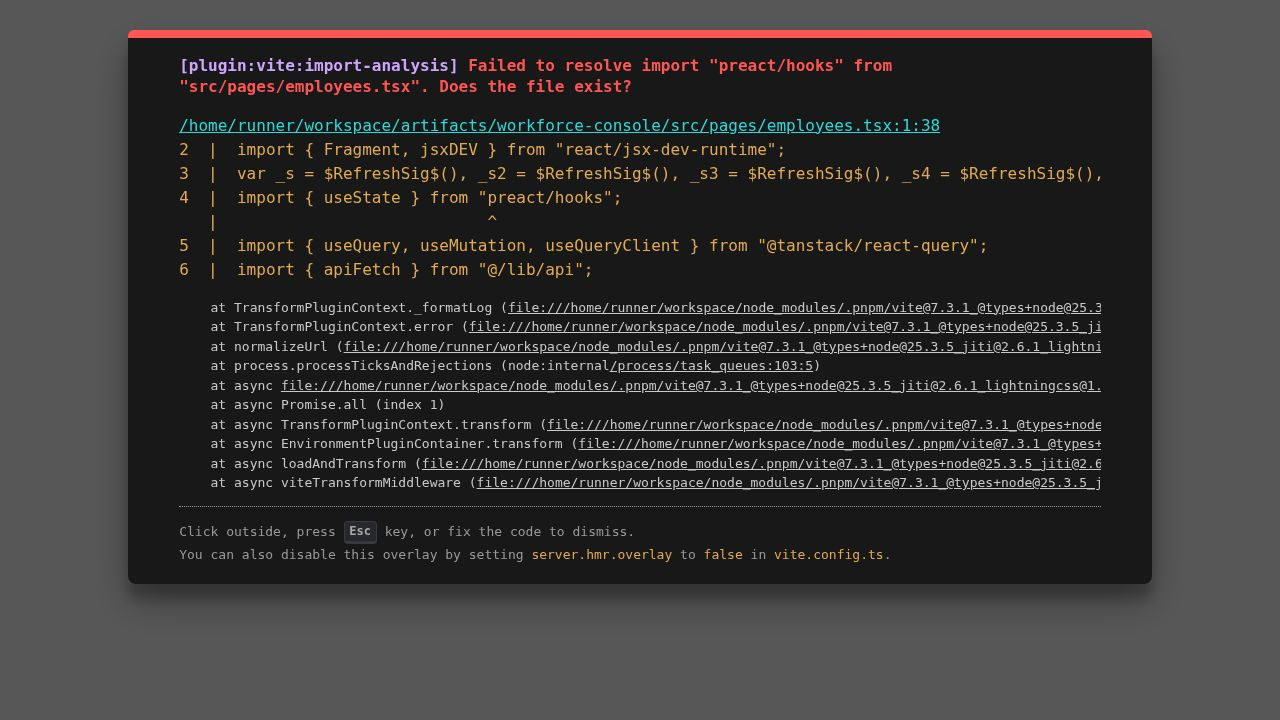
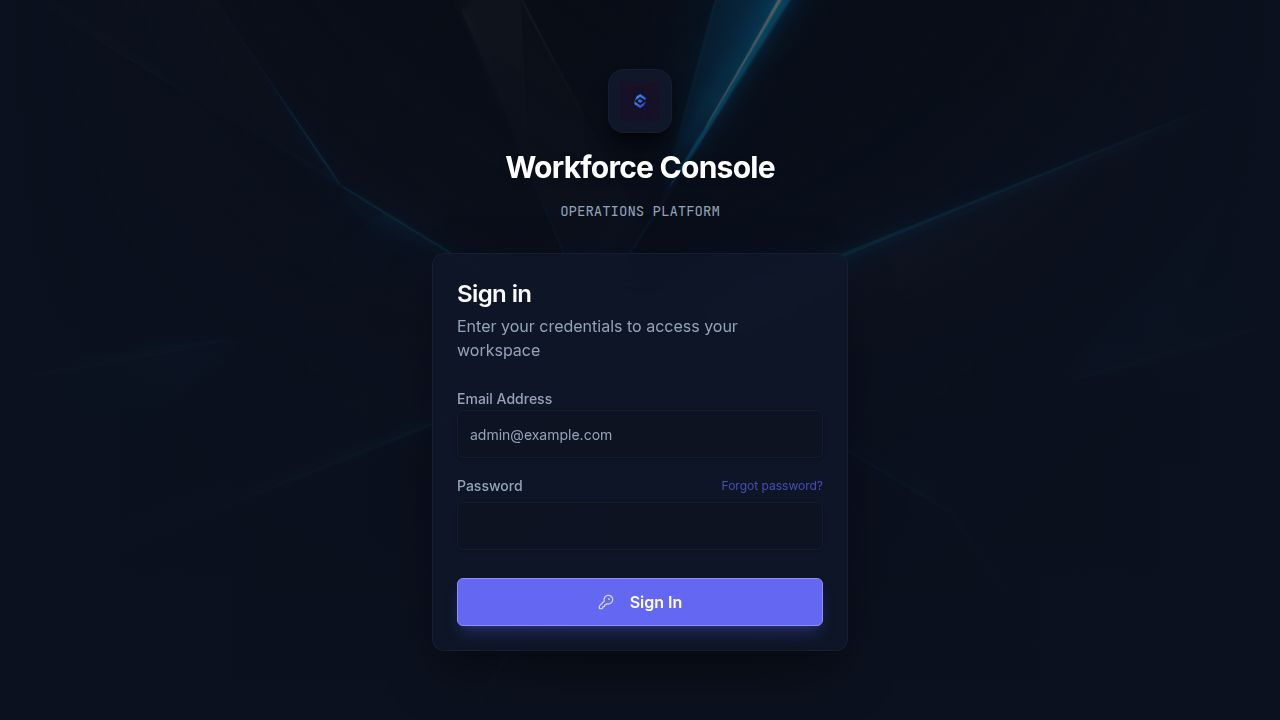
Fix API endpoint paths for the employees module
Correctly format API paths in `employees.tsx` to avoid double prefixes by removing unnecessary `/api/v1` from requests to `/workforce/*` endpoints.

Replit-Commit-Author: Agent
Replit-Commit-Session-Id: fac3b096-205c-4d1a-9620-f0959554fa4b
Replit-Commit-Checkpoint-Type: full_checkpoint
Replit-Commit-Event-Id: f8a30a54-0233-4829-b984-30e22bf593ee
Replit-Commit-Screenshot-Url: https://storage.googleapis.com/screenshot-production-us-central1/2b28fc9f-992f-4103-b3cf-50a1609164b2/fac3b096-205c-4d1a-9620-f0959554fa4b/zgcVG34
Replit-Helium-Checkpoint-Created: true

diff --git a/artifacts/workforce-console/src/pages/employees.tsx b/artifacts/workforce-console/src/pages/employees.tsx
@@ -149,13 +149,13 @@ function ProfilesTab() {
       const params = new URLSearchParams();
       if (statusFilter) params.set("status", statusFilter);
       if (search) params.set("search", search);
-      return apiFetch(`/api/v1/workforce/employees?${params}`);
+      return apiFetch(`/workforce/employees?${params}`);
     },
   });
 
   const lifecycleMutation = useMutation({
     mutationFn: ({ id, action, reason }: { id: string; action: string; reason?: string }) =>
-      apiFetch(`/api/v1/workforce/employees/${id}/${action}`, {
+      apiFetch(`/workforce/employees/${id}/${action}`, {
         method: "POST",
         body: JSON.stringify({ reason }),
       }),
@@ -304,7 +304,7 @@ function CreateProfileModal({ onClose, onCreated }: { onClose: () => void; onCre
     if (!form.legal_first_name || !form.legal_last_name) { setErr("First and last name required"); return; }
     setSaving(true); setErr("");
     try {
-      await apiFetch("/api/v1/workforce/employees", {
+      await apiFetch("/workforce/employees", {
         method: "POST",
         body: JSON.stringify(form),
       });
@@ -379,7 +379,7 @@ function LinksTab() {
   // a cross-employee links view via access-context aggregation
   const { data: profiles = [], isLoading } = useQuery<EmployeeProfile[]>({
     queryKey: ["workforce-employees", "", ""],
-    queryFn: () => apiFetch("/api/v1/workforce/employees"),
+    queryFn: () => apiFetch("/workforce/employees"),
   });
 
   // Fetch links for each employee, but lazy
@@ -387,13 +387,13 @@ function LinksTab() {
 
   const { data: links = [], isLoading: linksLoading } = useQuery<UserEmployeeLink[]>({
     queryKey: ["workforce-links", selectedEp],
-    queryFn: () => apiFetch(`/api/v1/workforce/employees/${selectedEp}/links`),
+    queryFn: () => apiFetch(`/workforce/employees/${selectedEp}/links`),
     enabled: !!selectedEp,
   });
 
   const linkActionMutation = useMutation({
     mutationFn: ({ linkId, action, reason }: { linkId: string; action: string; reason?: string }) =>
-      apiFetch(`/api/v1/workforce/links/${linkId}/${action}`, {
+      apiFetch(`/workforce/links/${linkId}/${action}`, {
         method: "POST",
         body: JSON.stringify({ reason }),
       }),
@@ -499,17 +499,17 @@ function RoleAssignmentsTab() {
 
   const { data: profiles = [] } = useQuery<EmployeeProfile[]>({
     queryKey: ["workforce-employees", "", ""],
-    queryFn: () => apiFetch("/api/v1/workforce/employees"),
+    queryFn: () => apiFetch("/workforce/employees"),
   });
 
   const { data: assignments = [], isLoading } = useQuery<RoleAssignment[]>({
     queryKey: ["workforce-role-assignments", selectedEp],
-    queryFn: () => apiFetch(`/api/v1/workforce/employees/${selectedEp}/role-assignments`),
+    queryFn: () => apiFetch(`/workforce/employees/${selectedEp}/role-assignments`),
     enabled: !!selectedEp,
   });
 
   const deactivateMutation = useMutation({
-    mutationFn: (id: string) => apiFetch(`/api/v1/workforce/role-assignments/${id}`, { method: "DELETE" }),
+    mutationFn: (id: string) => apiFetch(`/workforce/role-assignments/${id}`, { method: "DELETE" }),
     onSuccess: () => qc.invalidateQueries({ queryKey: ["workforce-role-assignments", selectedEp] }),
   });
 
@@ -620,7 +620,7 @@ function AddRoleModal({ epId, epName, onClose, onAdded }: {
         supervisor: ["rooms:write","tasks:write","staff:read","shifts:read","shifts:write"],
         staff:      ["tasks:read","tasks:write:own","shifts:read"],
       };
-      await apiFetch(`/api/v1/workforce/employees/${epId}/role-assignments`, {
+      await apiFetch(`/workforce/employees/${epId}/role-assignments`, {
         method: "POST",
         body: JSON.stringify({ ...form, permissions: PERMS[form.role_name] ?? [] }),
       });
@@ -709,7 +709,7 @@ function AuditTab() {
       const p = new URLSearchParams({ limit: "100" });
       if (filter.event_key) p.set("event_key", filter.event_key);
       if (filter.target_id) p.set("target_id", filter.target_id);
-      return apiFetch(`/api/v1/workforce/audit?${p}`);
+      return apiFetch(`/workforce/audit?${p}`);
     },
   });
 
@@ -781,14 +781,14 @@ function AuditTab() {
 function AccessContextPanel() {
   const { data: profiles = [] } = useQuery<EmployeeProfile[]>({
     queryKey: ["workforce-employees", "", ""],
-    queryFn: () => apiFetch("/api/v1/workforce/employees"),
+    queryFn: () => apiFetch("/workforce/employees"),
   });
 
   const [selectedUserId, setSelectedUserId] = useState("");
 
   const { data: ctx, isLoading, refetch } = useQuery({
     queryKey: ["workforce-access-context", selectedUserId],
-    queryFn: () => apiFetch(`/api/v1/workforce/access-context?user_id=${selectedUserId}`),
+    queryFn: () => apiFetch(`/workforce/access-context?user_id=${selectedUserId}`),
     enabled: !!selectedUserId,
   });
 